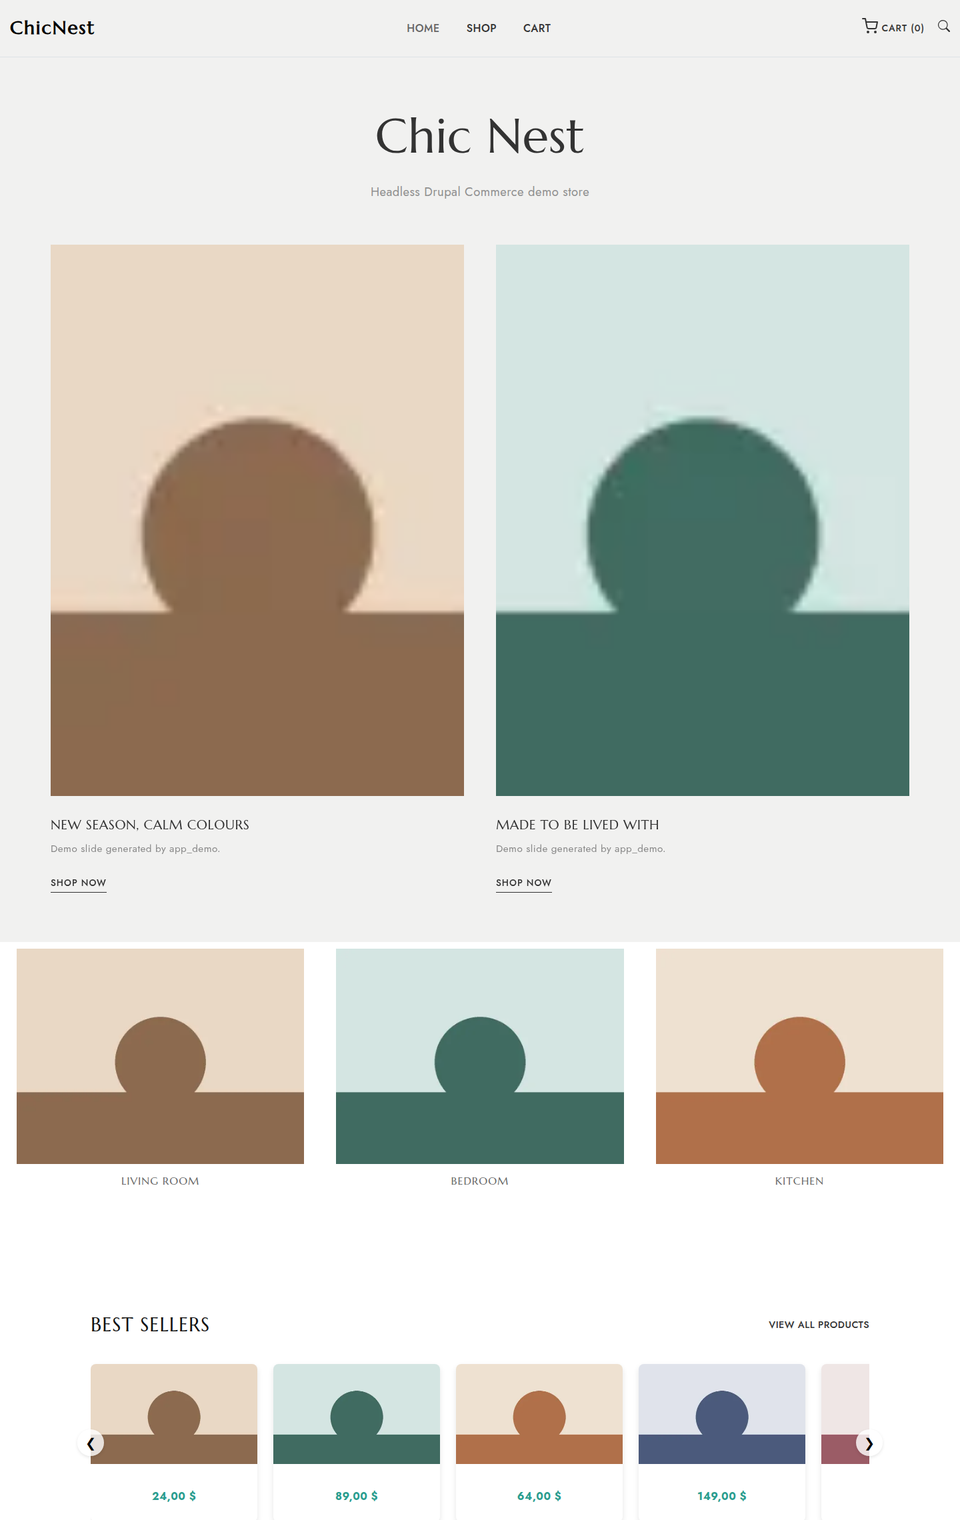
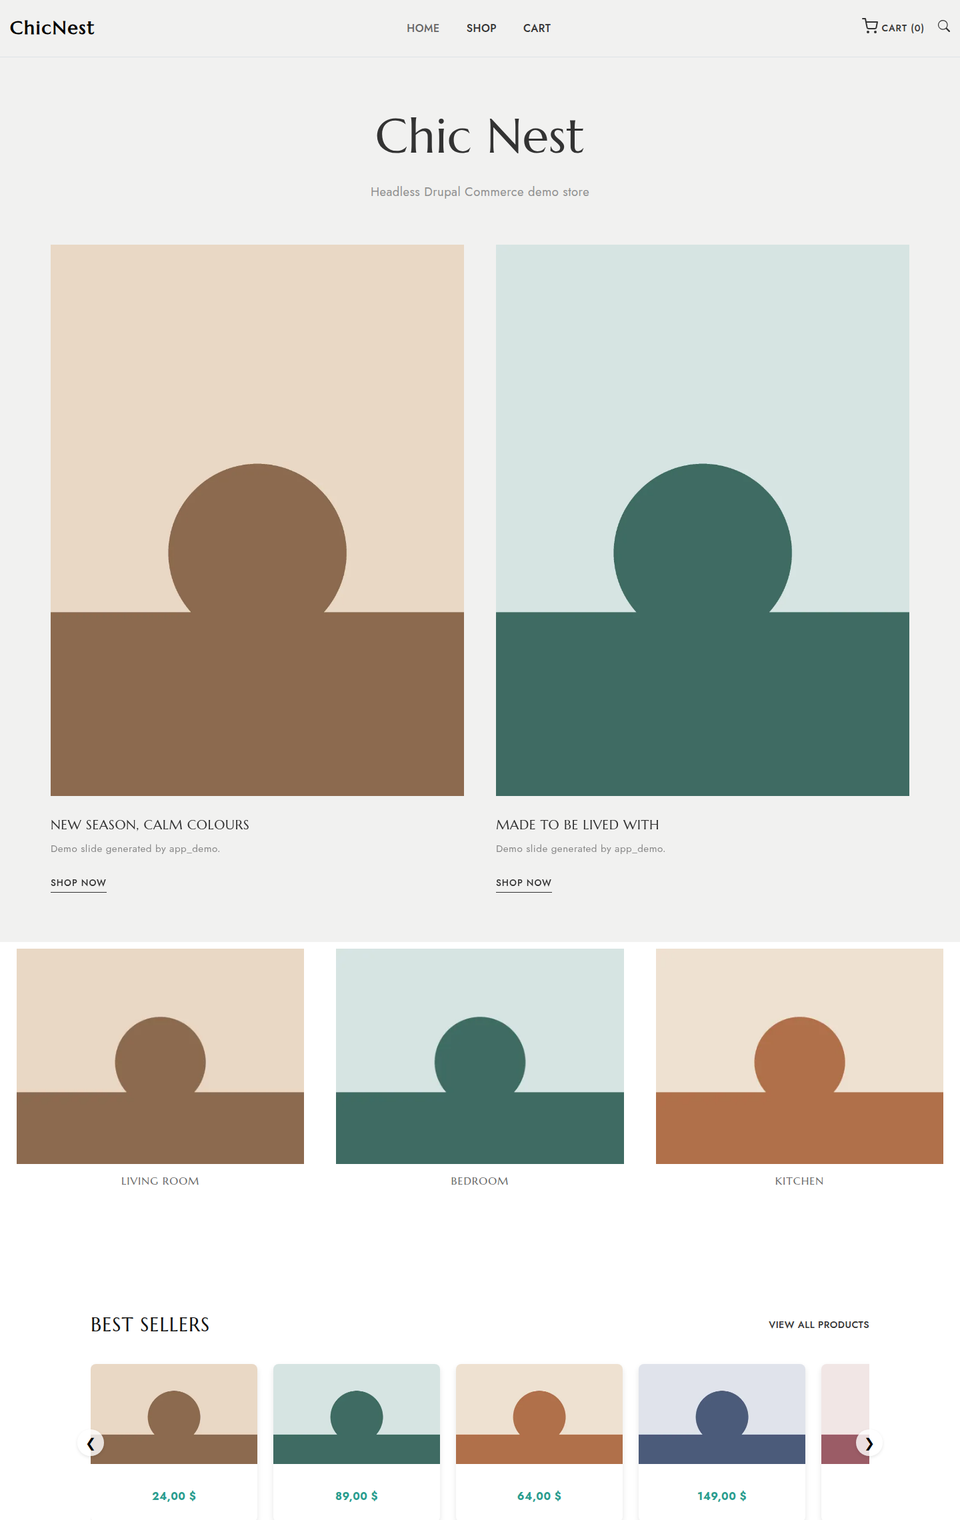
Fix blurry placeholder images

Changed region(s): [[0.5938, 0.2474, 0.875, 0.402], [0.125, 0.2474, 0.4062, 0.402]]

diff --git a/web/modules/custom/app_demo/src/DemoContentGenerator.php b/web/modules/custom/app_demo/src/DemoContentGenerator.php
@@ -147,7 +147,7 @@ final class DemoContentGenerator {
       $slides[] = $this->paragraph('billboard_slide', [
         'field_title' => $title,
         'field_description' => 'Demo slide generated by app_demo.',
-        'field_image' => $this->media($title, $i, 1600, 700),
+        'field_image' => $this->media($title, $i, 1000, 1300),
         'field_link' => ['uri' => 'internal:/products', 'title' => 'Shop now'],
       ]);
     }
@@ -323,26 +323,32 @@ final class DemoContentGenerator {
 
   /**
    * Draws a text-free placeholder (two-tone backdrop with a round object).
+   *
+   * Drawn at twice the size and downsampled for smooth edges, and saved as
+   * PNG so the flat colours stay crisp in every image style.
    */
   private function file(string $label, int $color, int $width = 1200, int $height = 900): EntityInterface {
     [$background, $accent] = self::PALETTE[$color % count(self::PALETTE)];
 
-    $image = imagecreatetruecolor($width, $height);
-    imagefill($image, 0, 0, $this->allocate($image, $background));
-    $accentColor = $this->allocate($image, $accent);
+    $scale = 2;
+    $canvas = imagecreatetruecolor($width * $scale, $height * $scale);
+    imagefill($canvas, 0, 0, $this->allocate($canvas, $background));
+    $accentColor = $this->allocate($canvas, $accent);
     // A "table" band along the bottom and an object resting on it.
-    $horizon = intdiv($height * 2, 3);
-    imagefilledrectangle($image, 0, $horizon, $width, $height, $accentColor);
-    $diameter = (int) (min($width, $height) * 0.42);
-    imagefilledellipse($image, intdiv($width, 2), $horizon - intdiv($diameter, 3), $diameter, $diameter, $accentColor);
+    $horizon = intdiv($height * $scale * 2, 3);
+    imagefilledrectangle($canvas, 0, $horizon, $width * $scale, $height * $scale, $accentColor);
+    $diameter = (int) (min($width, $height) * $scale * 0.42);
+    imagefilledellipse($canvas, intdiv($width * $scale, 2), $horizon - intdiv($diameter, 3), $diameter, $diameter, $accentColor);
 
+    $image = imagecreatetruecolor($width, $height);
+    imagecopyresampled($image, $canvas, 0, 0, 0, 0, $width, $height, $width * $scale, $height * $scale);
     ob_start();
-    imagejpeg($image, NULL, 85);
+    imagepng($image, NULL, 9);
     $data = (string) ob_get_clean();
 
     $directory = self::IMAGE_DIR;
     $this->fileSystem->prepareDirectory($directory, FileSystemInterface::CREATE_DIRECTORY);
-    $name = preg_replace('/[^a-z0-9]+/', '-', strtolower($label)) . "-{$width}x{$height}.jpg";
+    $name = preg_replace('/[^a-z0-9]+/', '-', strtolower($label)) . "-{$width}x{$height}.png";
     return $this->fileRepository->writeData($data, "{$directory}/{$name}", FileExists::Replace);
   }
 
